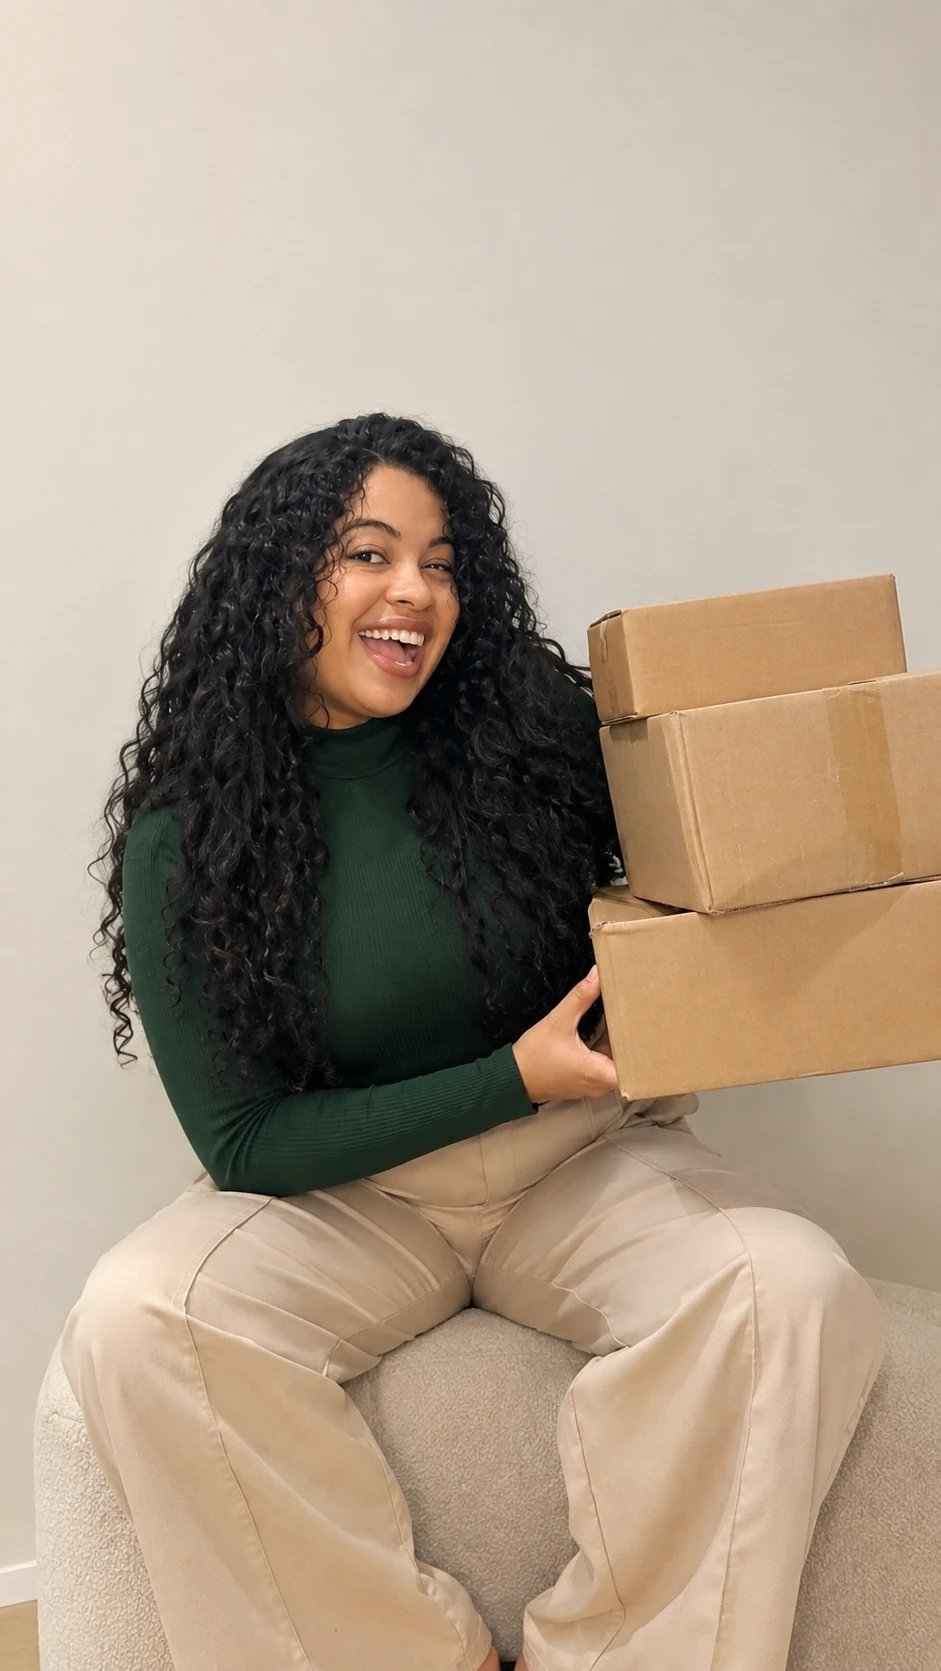
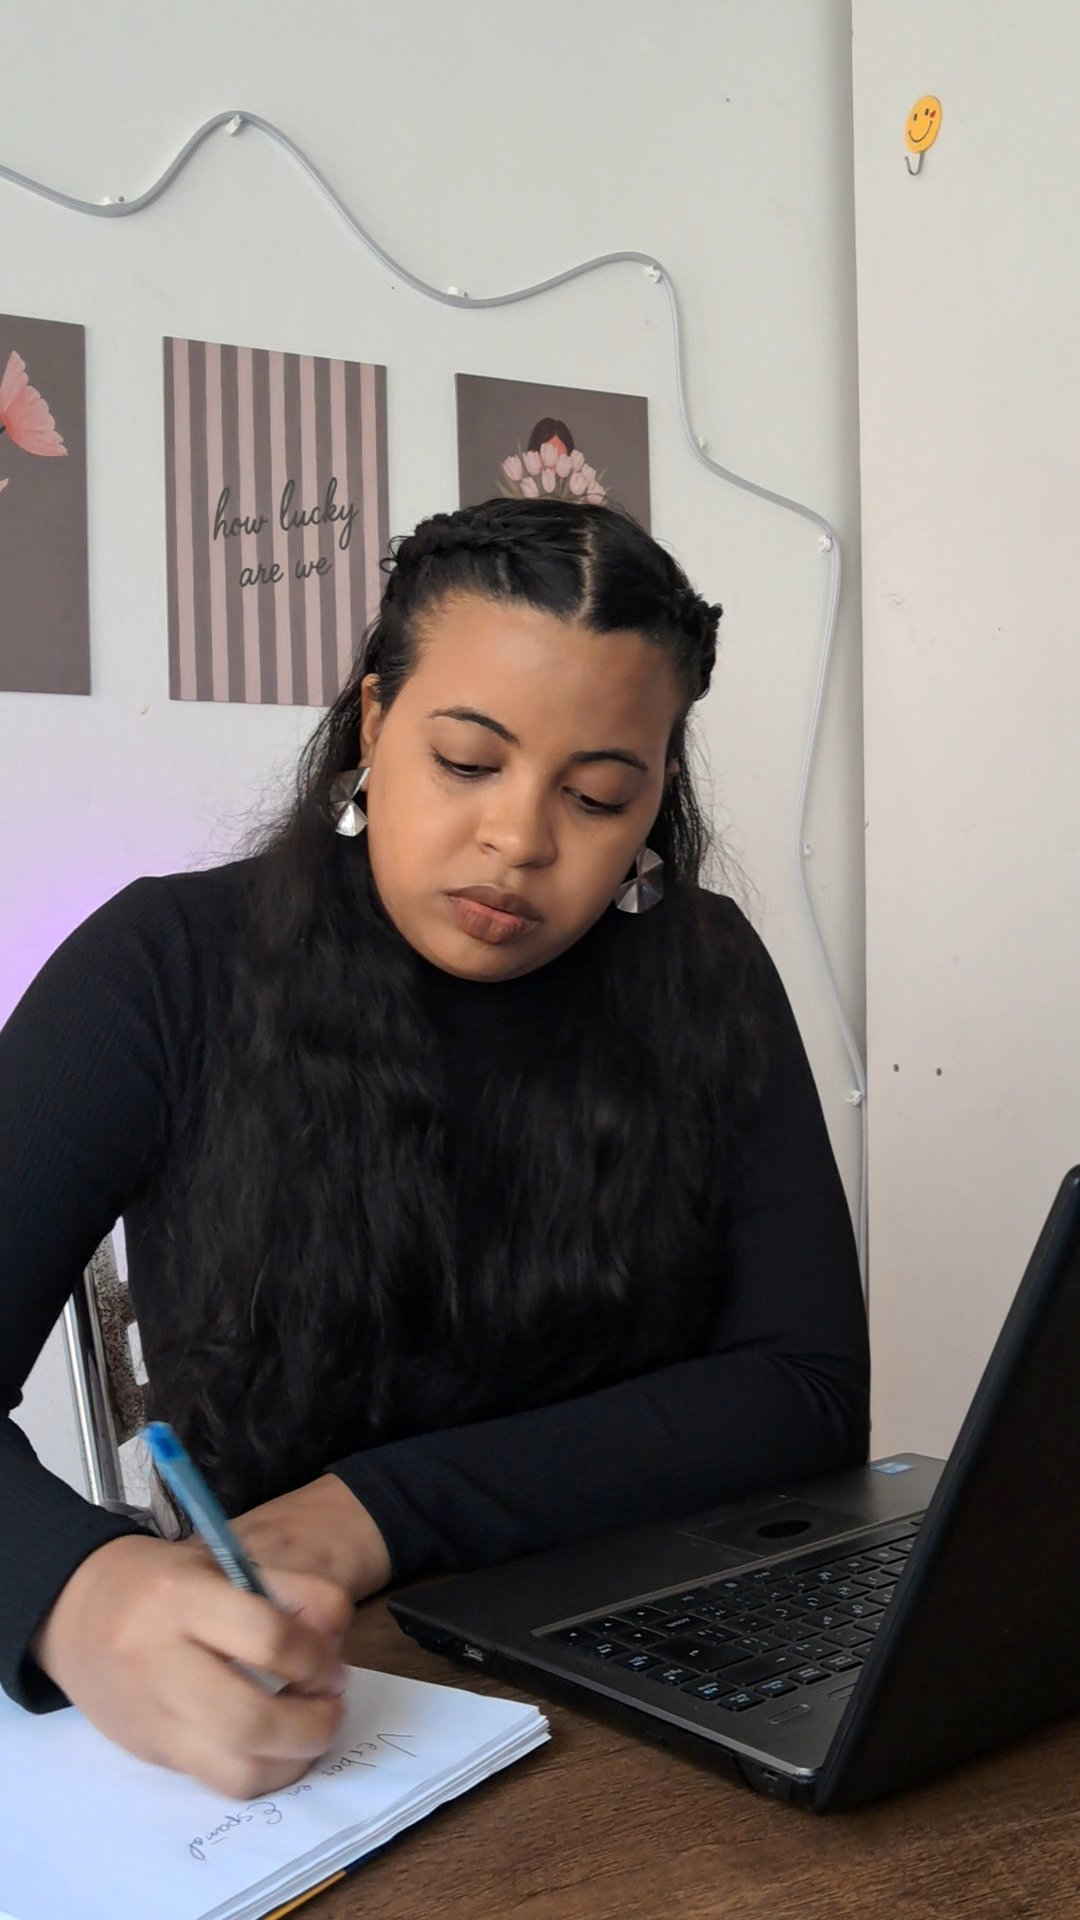
Sobre mim compacto: foto escrevendo, texto em 3 linhas, 3 diferenciais e selo do Método

diff --git a/index.html b/index.html
@@ -117,22 +117,23 @@ section{position:relative;overflow:hidden}
 .brilhos-capa{width:84px;right:46%;top:26px}
 
 /* SOBRE */
-.sobre{padding:88px 0 0;background:var(--creme)}
+.sobre{padding:88px 0;background:var(--creme)}
 .sobre-grid{display:grid;grid-template-columns:.9fr 1.1fr;gap:72px;align-items:center}
 .sobre-foto{position:relative;max-width:420px;justify-self:center;width:100%}
-.polaroid{background:#fff;padding:14px 14px 56px;border-radius:6px;box-shadow:0 18px 40px rgba(24,44,8,.18);transform:rotate(-4deg);position:relative}
+.polaroid{background:#fff;padding:14px 14px 10px;border-radius:6px;box-shadow:0 18px 40px rgba(24,44,8,.18);transform:rotate(-4deg);position:relative}
 .polaroid::before{content:"";position:absolute;top:-16px;left:50%;width:110px;height:32px;margin-left:-55px;background:rgba(201,211,190,.85);transform:rotate(3deg);border-radius:2px}
 .sobre-foto .quadro{aspect-ratio:4/5;overflow:hidden;background:var(--creme2);border-radius:3px}
 .sobre-foto img{width:100%;height:100%;object-fit:cover}
 .sobre-foto .gap{border:0}
-.nota{position:absolute;right:-26px;bottom:24px;z-index:2;background:var(--nota);color:var(--verde2);font-family:var(--f-mao);font-size:22px;line-height:1.1;padding:14px 16px;transform:rotate(-8deg);box-shadow:0 8px 18px rgba(24,44,8,.18);max-width:150px;text-align:center}
+.legenda-polaroid{font-family:var(--f-mao);font-size:24px;color:var(--verde2);text-align:center;padding:10px 0 4px}
+.nota{position:absolute;right:-26px;bottom:90px;z-index:2;background:var(--nota);color:var(--verde2);font-family:var(--f-mao);font-size:22px;line-height:1.1;padding:14px 16px;transform:rotate(-8deg);box-shadow:0 8px 18px rgba(24,44,8,.18);max-width:150px;text-align:center}
 .coroa{position:absolute;width:76px;top:-46px;left:-18px;transform:rotate(-14deg);z-index:2}
 .sobre-texto{position:relative}
 .cacto{position:absolute;right:0;top:-6px;width:52px}
-.titulo-mao{font-family:var(--f-mao);font-weight:400;font-size:clamp(38px,4.4vw,44px);line-height:1.05;color:var(--verde2);transform:rotate(-4deg);transform-origin:left;margin:14px 0 14px;display:inline-block}
+.titulo-mao{font-family:var(--f-mao);font-weight:400;font-size:clamp(40px,4.6vw,48px);line-height:1.05;color:var(--verde2);transform:rotate(-4deg);transform-origin:left;margin:14px 0 14px;display:inline-block}
 .sub-sobre{font-family:var(--f-titulo);text-transform:uppercase;font-size:22px;line-height:1.2;margin-bottom:18px;letter-spacing:.02em}
 .sub-sobre .marca-texto{padding:0 .2em}
-.sobre-texto p.par{font-size:15px;color:var(--cinza);margin-bottom:14px;max-width:54ch}
+.sobre-texto p.par{font-size:16px;color:var(--cinza);margin-bottom:24px;max-width:56ch}
 .sobre-texto .gap{min-height:96px;margin-bottom:14px}
 .foto-texto{margin:6px 0 18px;max-width:54ch;position:relative}
 .quadro-texto{aspect-ratio:16/9;border-radius:18px;overflow:hidden;background:var(--creme2);box-shadow:0 14px 30px rgba(24,44,8,.16)}
@@ -146,11 +147,16 @@ section{position:relative;overflow:hidden}
 .faz{background:var(--verde);color:var(--creme);margin-top:88px;padding:64px 0}
 .faz h3{font-family:var(--f-titulo);font-weight:400;text-transform:uppercase;font-size:clamp(28px,3.4vw,40px);line-height:1.1;margin-bottom:36px}
 .faz h3 .mao{color:var(--lima)}
-.difs{display:grid;grid-template-columns:repeat(3,1fr);gap:18px}
-.dif{padding:24px;border-radius:20px;background:var(--verde2)}
-.dif svg{width:42px;height:42px;color:var(--verde);background:var(--lima);border-radius:12px;padding:8px;margin-bottom:16px}
-.dif h4{font-family:var(--f-texto);font-weight:700;font-size:18px;line-height:1.3;margin-bottom:8px}
-.dif p{font-size:15px;color:#DCE3CF}
+.difs{display:grid;grid-template-columns:repeat(3,1fr);border:1.5px solid var(--verde2);border-radius:18px;overflow:hidden;max-width:560px}
+.dif{padding:18px 16px;background:#fff}
+.dif+.dif{border-left:1.5px solid var(--verde2)}
+.dif:first-child{background:var(--verde2);color:var(--creme)}
+.dif svg{width:34px;height:34px;color:var(--verde);background:var(--lima);border-radius:10px;padding:7px;margin-bottom:12px}
+.dif h4{font-family:var(--f-texto);font-weight:700;font-size:15px;line-height:1.3;margin-bottom:6px}
+.dif p{font-size:13px;color:var(--cinza);line-height:1.45}
+.dif:first-child p{color:#DCE3CF}
+.selo-metodo{display:inline-flex;align-items:center;gap:12px;margin-top:22px;background:var(--salvia);color:var(--verde);border-radius:999px;padding:8px 22px 8px 8px;font-size:13px;font-weight:700;letter-spacing:.08em;text-transform:uppercase}
+.selo-metodo i{width:34px;height:34px;border-radius:50%;background:var(--verde2);color:var(--lima);font-style:normal;display:flex;align-items:center;justify-content:center;font-size:15px}
 .numeros{display:grid;grid-template-columns:repeat(3,1fr);margin-top:40px;padding-top:28px;border-top:1px solid rgba(254,255,242,.2)}
 .numeros div{display:flex;align-items:baseline;gap:12px;flex-wrap:wrap}
 .numeros b{font-family:var(--f-nome);font-weight:400;font-size:54px;line-height:1;color:var(--lima);text-transform:uppercase}
@@ -275,7 +281,6 @@ section{position:relative;overflow:hidden}
 @media (max-width:980px){
   .capa-grid,.sobre-grid,.dest-grid,.contato-grid{grid-template-columns:1fr;gap:44px}
   .capa-foto{justify-self:start;max-width:400px;margin-left:30px}
-  .difs{grid-template-columns:1fr}
   .elogios{grid-template-columns:1fr}
   .duvidas{grid-template-columns:1fr 1fr}
   .nicho-cards{grid-template-columns:repeat(3,1fr)}
@@ -294,7 +299,13 @@ section{position:relative;overflow:hidden}
   .provas{gap:12px 22px}
   .provas b{font-size:32px}
   .botoes .btn{width:100%}
-  .sobre{padding-top:64px}
+  .sobre{padding:64px 0}
+  .difs{grid-template-columns:1fr}
+  .dif+.dif{border-left:0;border-top:1.5px solid var(--verde2)}
+  .dif{display:grid;grid-template-columns:34px 1fr;column-gap:12px;align-items:center;padding:14px 16px}
+  .dif svg{margin:0;grid-row:span 2}
+  .dif h4{margin:0}
+  .selo-metodo{font-size:12px;letter-spacing:.04em}
   .nota{right:-4px}
   .coroa{left:-2px}
   .cacto{width:40px}
@@ -387,26 +398,16 @@ section{position:relative;overflow:hidden}
   <div class="wrap sobre-grid">
     <div class="sobre-foto">
       <svg class="coroa" viewBox="0 0 110 64" aria-hidden="true"><path d="M10 56 L16 16 L36 40 L54 8 L72 40 L94 16 L100 56 Z" fill="#CBFC00" stroke="#182C08" stroke-width="4" stroke-linejoin="round"/></svg>
-      <div class="polaroid"><div class="quadro" id="sobre-foto"></div></div>
+      <div class="polaroid"><div class="quadro" id="sobre-foto"></div><p class="legenda-polaroid">eu, criando ✦</p></div>
       <p class="nota">Espanhol e Português</p>
     </div>
     <div class="sobre-texto">
       <svg class="cacto" viewBox="0 0 50 90" aria-hidden="true"><path d="M20 88 V22 a5 5 0 0 1 10 0 V88 Z M20 54 H12 a4 4 0 0 1 -4 -4 V34 a4 4 0 0 1 8 0 V46 H20 Z M30 44 H34 V30 a4 4 0 0 1 8 0 V48 a4 4 0 0 1 -4 4 H30 Z" fill="#263C18"/></svg>
       <p class="kicker">SOBRE MIM</p>
       <h2 class="titulo-mao">Oie, eu sou a Eli</h2>
-      <p class="sub-sobre">Conteúdo com estratégia. Vídeo com <span class="marca-texto">alma.</span></p>
       <div id="sobre-texto"></div>
-      <div class="assina-linha">
-        <p class="assinatura" id="assinatura"></p>
-        <div class="selo-aluno"><span><b>aluna da Rafa Chagas</b>Formada no Método Profissão do Futuro ✦</span></div>
-      </div>
-    </div>
-  </div>
-  <div class="faz">
-    <div class="wrap">
-      <h3>O que eu faço pela <span class="mao">sua marca</span></h3>
       <div class="difs" id="difs"></div>
-      <div class="numeros" id="numeros"></div>
+      <p class="selo-metodo"><i>✦</i>Formada no Método Profissão do Futuro</p>
     </div>
   </div>
 </section>
@@ -597,11 +598,9 @@ function montar(){
     }
     return p ? '<p class="par">'+esc(p)+'</p>' : gap('texto','Escreva aqui mais um parágrafo sobre você');
   }).join('');
-  document.getElementById('assinatura').textContent = D.nome.split(' ')[0];
   document.getElementById('difs').innerHTML = D.diferenciais.map(function(d,i){
     return '<div class="dif">'+DIF_ICONES[i%3]+'<h4>'+esc(d.titulo)+'</h4><p>'+esc(d.texto)+'</p></div>';
   }).join('');
-  document.getElementById('numeros').innerHTML = D.provas.map(function(p){return '<div><b>'+esc(p.numero)+'</b><span>'+esc(p.texto)+'</span></div>';}).join('');
 
   // Faixa de marcas (duas cópias pra rolar sem emenda)
   var itens = D.marcas.map(function(m){
@@ -803,17 +802,13 @@ var DADOS = {
   // Texto do Sobre mim, um parágrafo por linha.
   // Pra colocar uma foto no meio do texto: { foto: "midia/arquivo.jpg", legenda: "texto curto" }
   sobreTexto: [
-    "Sou Elinairam, UGC creator bilíngue baseada em São Paulo. Crio conteúdo em português e em espanhol para marcas que querem falar com o público de cada idioma com naturalidade e estratégia.",
-    "Já gravei mais de 100 vídeos para mais de 50 marcas, que somam mais de 5 milhões de visualizações.",
-    { foto: "midia/estudio.jpg", legenda: "Meu espaço de gravação ✦" },
-    "Mantenho uma comunidade educacional de creators, o que me deixa sempre por dentro das novidades do mercado. Eu traduzo esse conhecimento em comunicação estratégica para a sua marca.",
-    "Minhas entregas se destacam pela qualidade e pela rapidez."
+    "Sou UGC creator bilíngue em São Paulo e gravo em português e espanhol: são +100 vídeos para +50 marcas, com +5 milhões de views. Mantenho uma comunidade educacional de creators, então vivo por dentro das novidades do mercado e levo isso pra comunicação da sua marca, com entregas rápidas e de qualidade."
   ],
-  // Seus 3 diferenciais (faixa preta "O que eu faço pela sua marca")
+  // Seus 3 diferenciais (as 3 caixinhas do Sobre mim). Textos curtos!
   diferenciais: [
-    { titulo: "Estudo a dor do cliente da marca", texto: "Antes de gravar, entendo quem compra, o que trava a compra e qual fala convence." },
-    { titulo: "Roteiro meu, aprovado antes de gravar", texto: "Eu escrevo o roteiro e a marca aprova antes de eu ligar a câmera. Sem surpresa no final." },
-    { titulo: "Edição pronta pra anúncio", texto: "Gancho forte nos primeiros segundos, legenda e som tratado. É só subir no gerenciador." }
+    { titulo: "Estudo a dor do seu cliente", texto: "Entendo o público e o que trava a compra." },
+    { titulo: "Roteiro meu, aprovado por você", texto: "Enviado antes da gravação." },
+    { titulo: "Edição pronta pra anúncio", texto: "Gancho forte e som tratado." }
   ],
   // Seus 3 MELHORES vídeos (não os mais recentes). O 1º é o mais forte e toca sozinho.
   // titulo: nome curto · nicho · formato: ADS, review, unboxing, tutorial ou nativo
